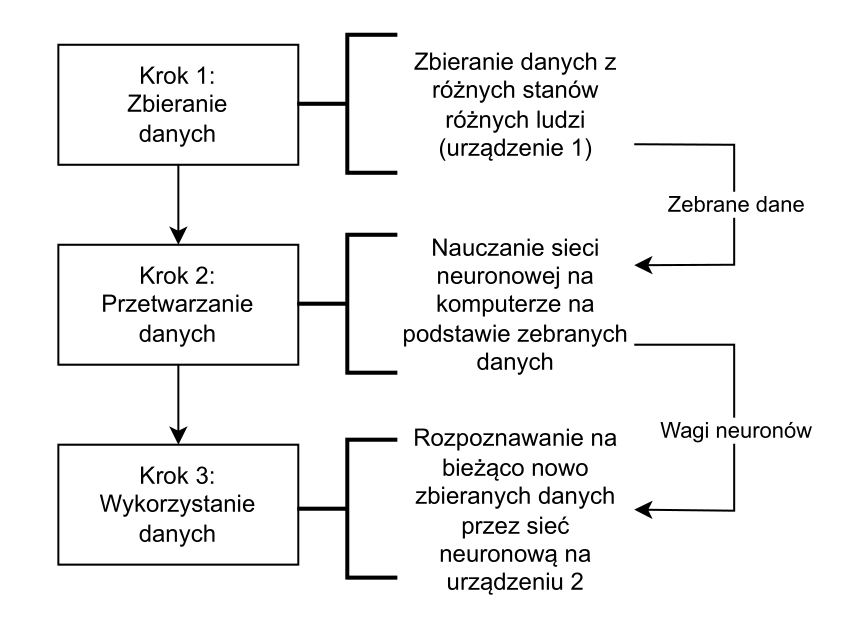
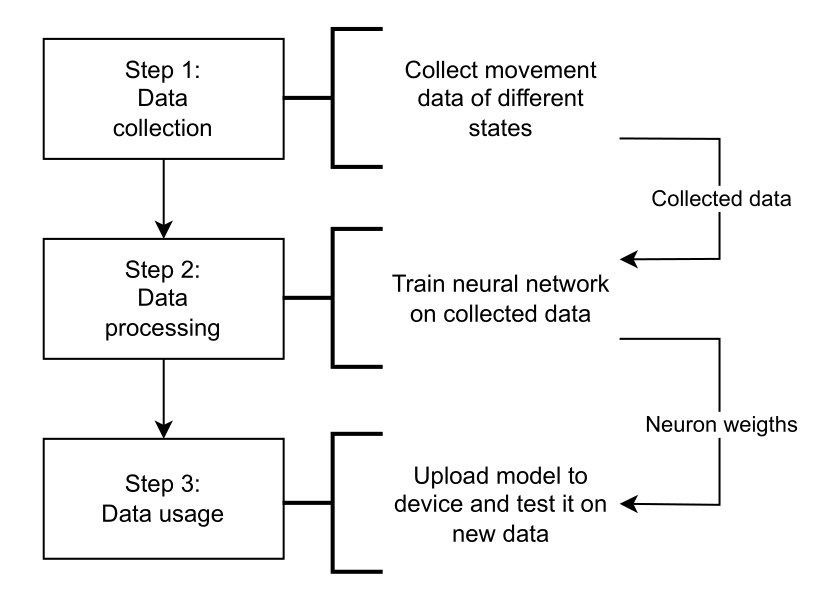
Translated roadmap to english

Changed region(s): [[0.0307, 0.0297, 0.9816, 0.9489], [0.4908, 0.0593, 0.7362, 0.2669]]

diff --git a/README.md b/README.md
@@ -3,7 +3,7 @@ The goal of this project is to create an AI that fits on a microcontroller and c
 ## Our plan
 ![roadmap](images/roadmap.png)
 ## TODO
-- [ ] Translate all materials to english
+- [x] Translate all materials to english
 - [ ] Add license to project
 - [ ] Create device schematic
 - [ ] Acquire all components for the device
